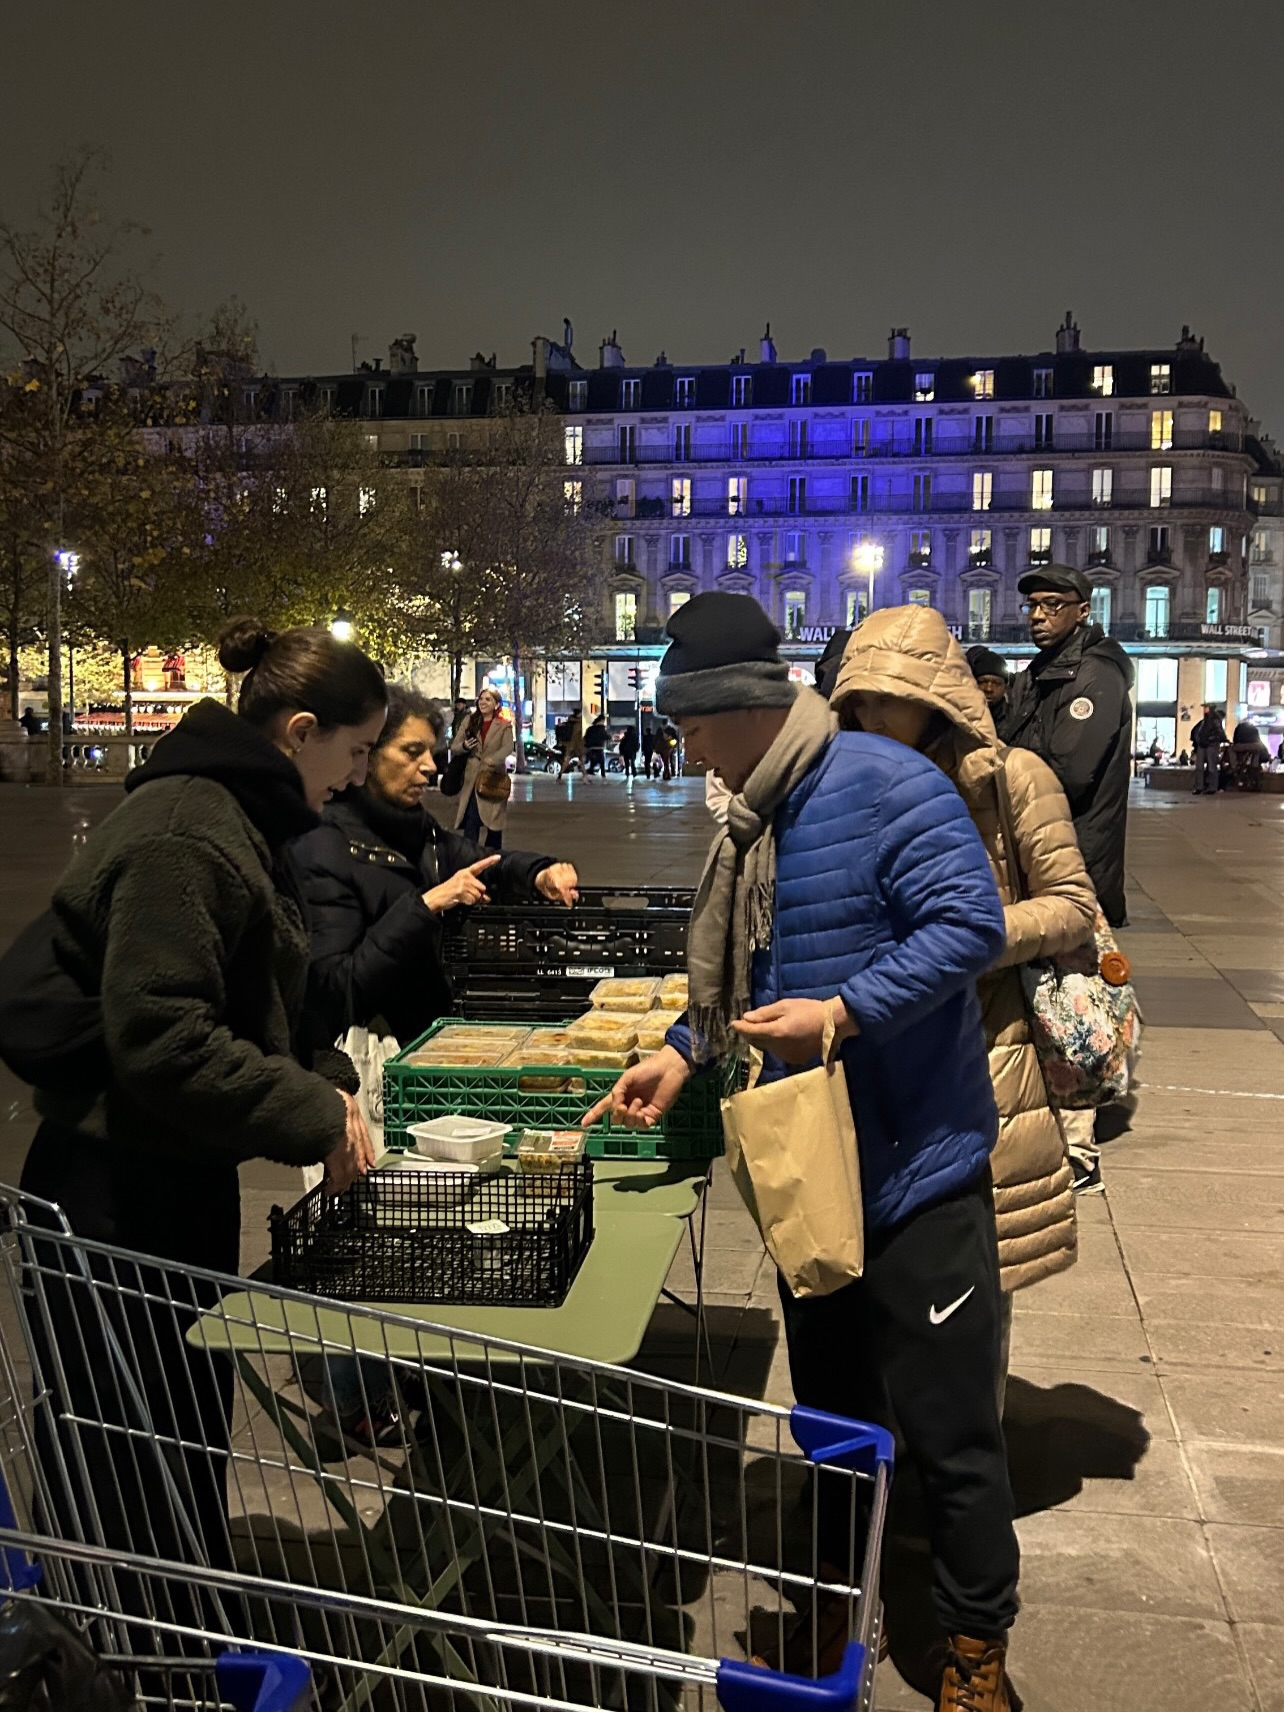
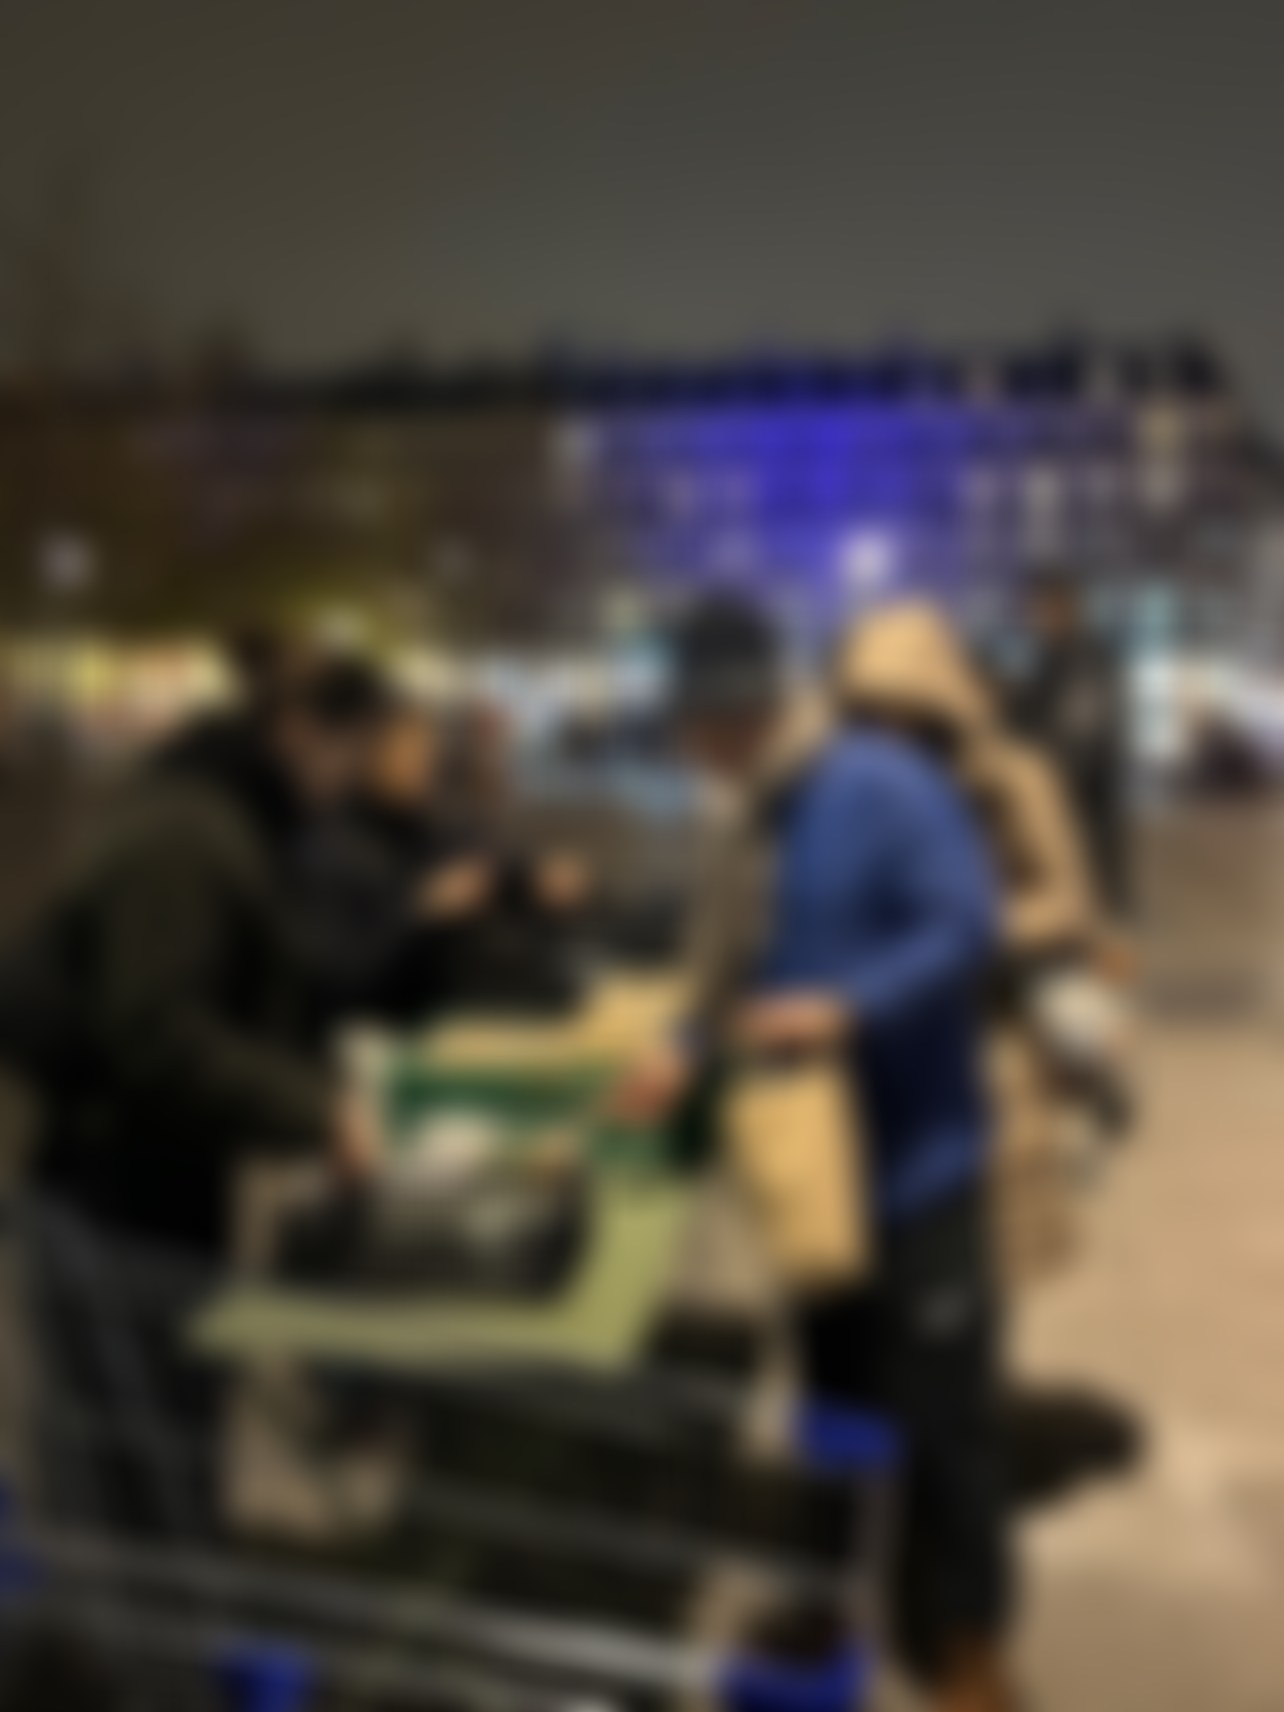
Blur LDOR gallery image

diff --git a/data/site-content.ts b/data/site-content.ts
@@ -79,10 +79,11 @@ export const ldor = {
     "Événements, ateliers et performances"
   ],
   images: [
-    "/images/ldor/gallery-ladanseourien1.jpg",
-    "/images/ldor/gallery-ladanseourien5.jpg",
-    "/images/ldor/gallery-ladanseourien6.jpg",
-    "/images/ldor/flyer-ladanseourien1.jpg"
+    { src: "/images/ldor/gallery-ladanseourien3.jpg", blurred: true },
+    { src: "/images/ldor/gallery-ladanseourien1.jpg" },
+    { src: "/images/ldor/gallery-ladanseourien5.jpg" },
+    { src: "/images/ldor/gallery-ladanseourien6.jpg" },
+    { src: "/images/ldor/flyer-ladanseourien1.jpg" }
   ]
 };
 

diff --git a/components/sections/LaDanseOuRien.tsx b/components/sections/LaDanseOuRien.tsx
@@ -56,10 +56,10 @@ export function LaDanseOuRien() {
         </MagneticLink>
       </div>
       <div className="ldor__gallery" aria-label="Galerie La Danse ou Rien">
-        {ldor.images.map((src, index) => (
-          <figure key={src}>
+        {ldor.images.map((image, index) => (
+          <figure className={image.blurred ? "ldor__gallery-blurred" : undefined} key={image.src}>
             <Image
-              src={src}
+              src={image.src}
               alt={`La Danse ou Rien image ${index + 1}`}
               width={1400}
               height={1000}

diff --git a/app/globals.css b/app/globals.css
@@ -686,6 +686,7 @@ video {
 .ldor__gallery figure {
   flex: 0 0 min(82vw, 30rem);
   margin: 0;
+  overflow: hidden;
   scroll-snap-align: start;
 }
 
@@ -695,6 +696,11 @@ video {
   height: auto;
   object-fit: cover;
   border: 1px solid var(--sage);
+}
+
+.ldor__gallery-blurred img {
+  filter: blur(14px);
+  transform: scale(1.04);
 }
 
 .ldor {
